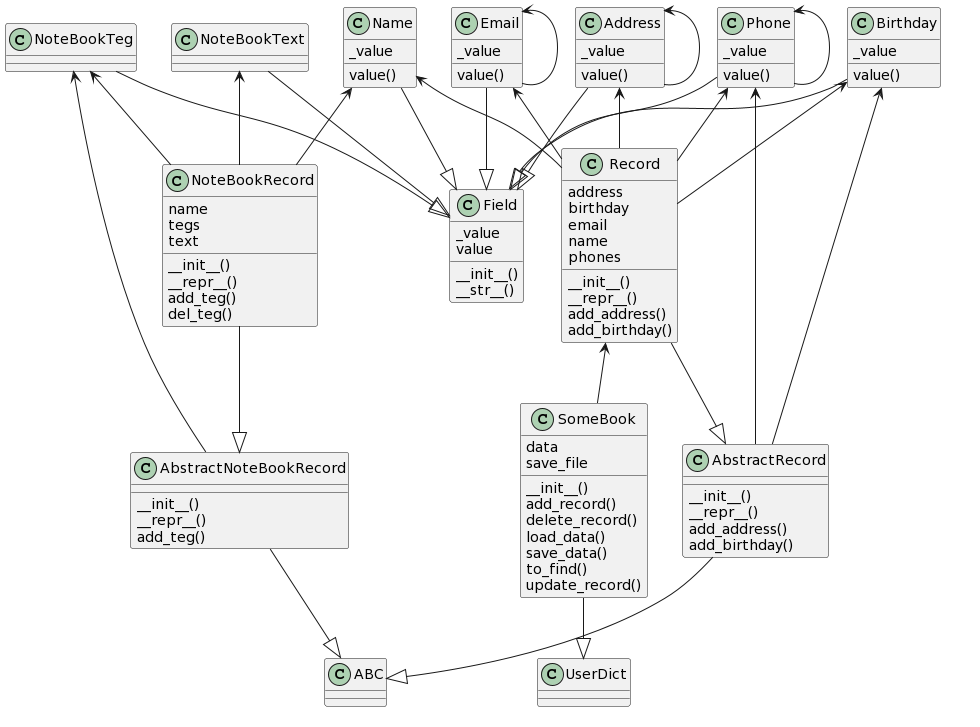
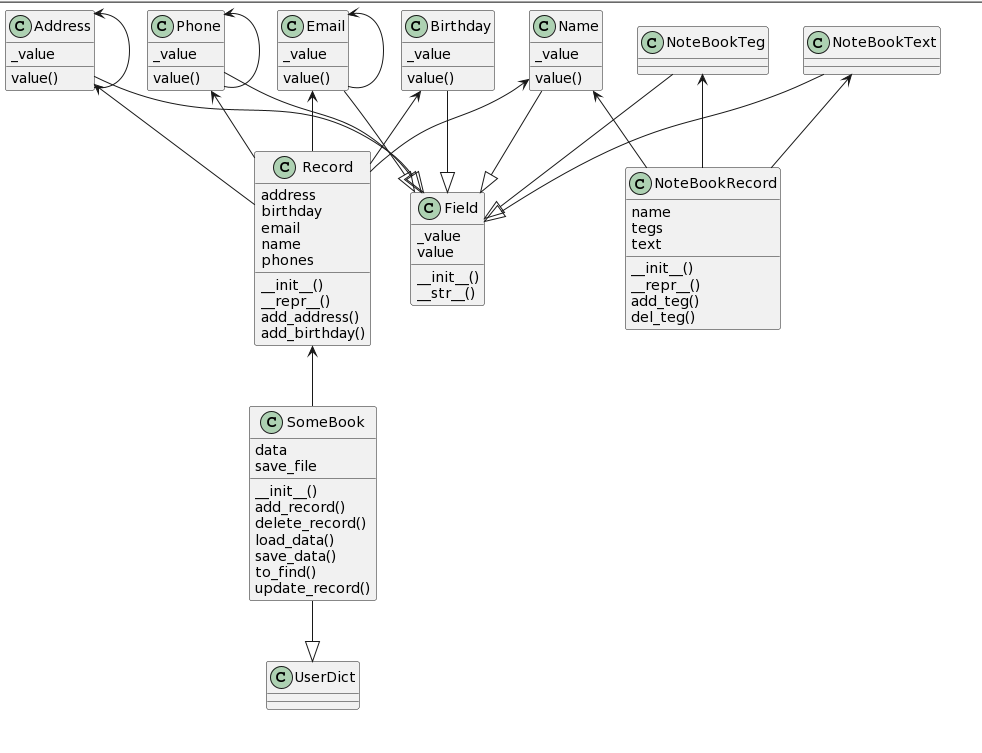
fixed abstractclasses

diff --git a/Personal_assistant/classes.py b/Personal_assistant/classes.py
@@ -2,7 +2,6 @@ import pickle
 from collections import UserDict
 from datetime import datetime
 import re
-from abc import ABC, abstractmethod
 
 from Personal_assistant.styles import bcolors
 
@@ -94,21 +93,7 @@ class NoteBookTeg(Field):
     pass
 
 
-class AbstractNoteBookRecord(ABC):
-    @abstractmethod
-    def __init__(self):
-        pass
-
-    @abstractmethod
-    def __repr__(self):
-        pass
-
-    @abstractmethod
-    def add_teg(self, teg: NoteBookTeg):
-        pass
-
-
-class NoteBookRecord(AbstractNoteBookRecord):
+class NoteBookRecord():
     def __init__(self, name: Name, text: NoteBookText, *args):
         self.name = name
         self.text = text
@@ -126,25 +111,7 @@ class NoteBookRecord(AbstractNoteBookRecord):
                 return self.tegs.pop(i)
 
 
-class AbstractRecord(ABC):
-    @abstractmethod
-    def __init__(self):
-        pass
-
-    @abstractmethod
-    def add_address(self, phone: Phone):
-        pass
-
-    @abstractmethod
-    def add_birthday(self, birthday: Birthday):
-        pass
-
-    @abstractmethod
-    def __repr__(self):
-        pass
-
-
-class Record(AbstractRecord):
+class Record():
     def __init__(self, name: Name, phone: Phone, adr: Address, email: Email, birthday: Birthday = None):
         self.name = name
         self.address = adr

diff --git a/abstractclasses.py b/abstractclasses.py
@@ -2,7 +2,7 @@ from abc import ABC, abstractmethod
 from collections import UserDict
 
 
-class Record(ABC):
+class AbstractRecord(ABC):
     @abstractmethod
     def add_address(self):
         pass
@@ -11,7 +11,7 @@ class Record(ABC):
         pass
 
 
-class NoteBookRecord(ABC):
+class AbstractNoteBook(ABC):
     @abstractmethod
     def add_teg(self):
         pass
@@ -21,7 +21,7 @@ class NoteBookRecord(ABC):
         pass
 
 
-class SomeBook(UserDict, ABC):
+class AbstractAddressBook(ABC):
     @abstractmethod
     def add_record(self):
         pass
@@ -43,5 +43,41 @@ class SomeBook(UserDict, ABC):
         pass
 
     @abstractmethod
+    def load_data(self):
+        pass
+
+
+class Record(AbstractRecord):
+    def add_address(self):
+        pass
+
+    def add_birthday(self):
+        pass
+
+
+class NoteBookRecord(AbstractNoteBook):
+    def add_teg(self):
+        pass
+
+    def del_teg(self):
+        pass
+
+
+class SomeBook(UserDict, AbstractAddressBook):
+    def add_record(self):
+        pass
+
+    def delete_record(self):
+        pass
+
+    def update_record(self):
+        pass
+
+    def to_file(self):
+        pass
+
+    def save_data(self):
+        pass
+
     def load_data(self):
         pass
